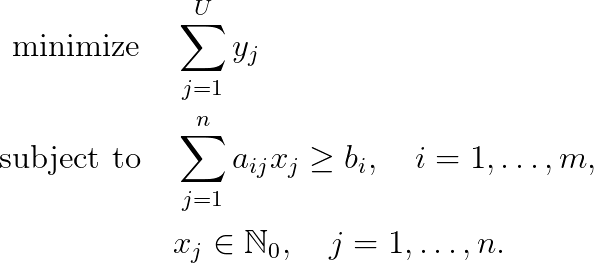
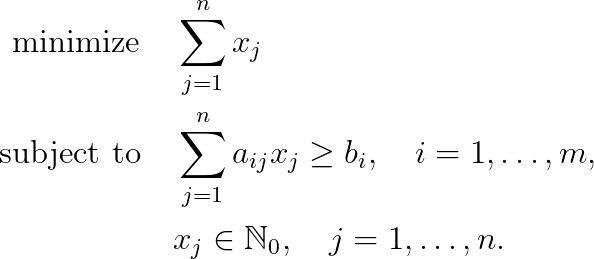
Create 13-cutting-stock-problem

diff --git a/13-cutting-stock-problem/problem.tex b/13-cutting-stock-problem/problem.tex
@@ -1,8 +1,7 @@
 \begin{align*}
-\text{minimize} \quad & \sum_{j=1}^U y_j \\
-\text{subject to} \quad & \sum_{i=1}^n w_i x_{ij} \leq c y_j, \quad j = 1, \ldots, U, \\
-& \sum_{j=1}^U x_{ij} \geq b_i \quad i = 1, \ldots, m,\\
-& x_{ij} \in \mathbb{N}_0, \; y_j \in \lbrace 0, 1 \rbrace, \quad i = 1, \ldots, m, \quad j = 1, \ldots, U.
+\text{minimize} \quad & \sum_{j=1}^n x_j \\
+\text{subject to} \quad & \sum_{j=1}^n a_{ij} x_j \geq b_i, \quad i = 1, \ldots, m, \\
+& x_j \in \mathbb{N}_0, \quad j = 1, \ldots, n.
 \end{align*}
 
 
